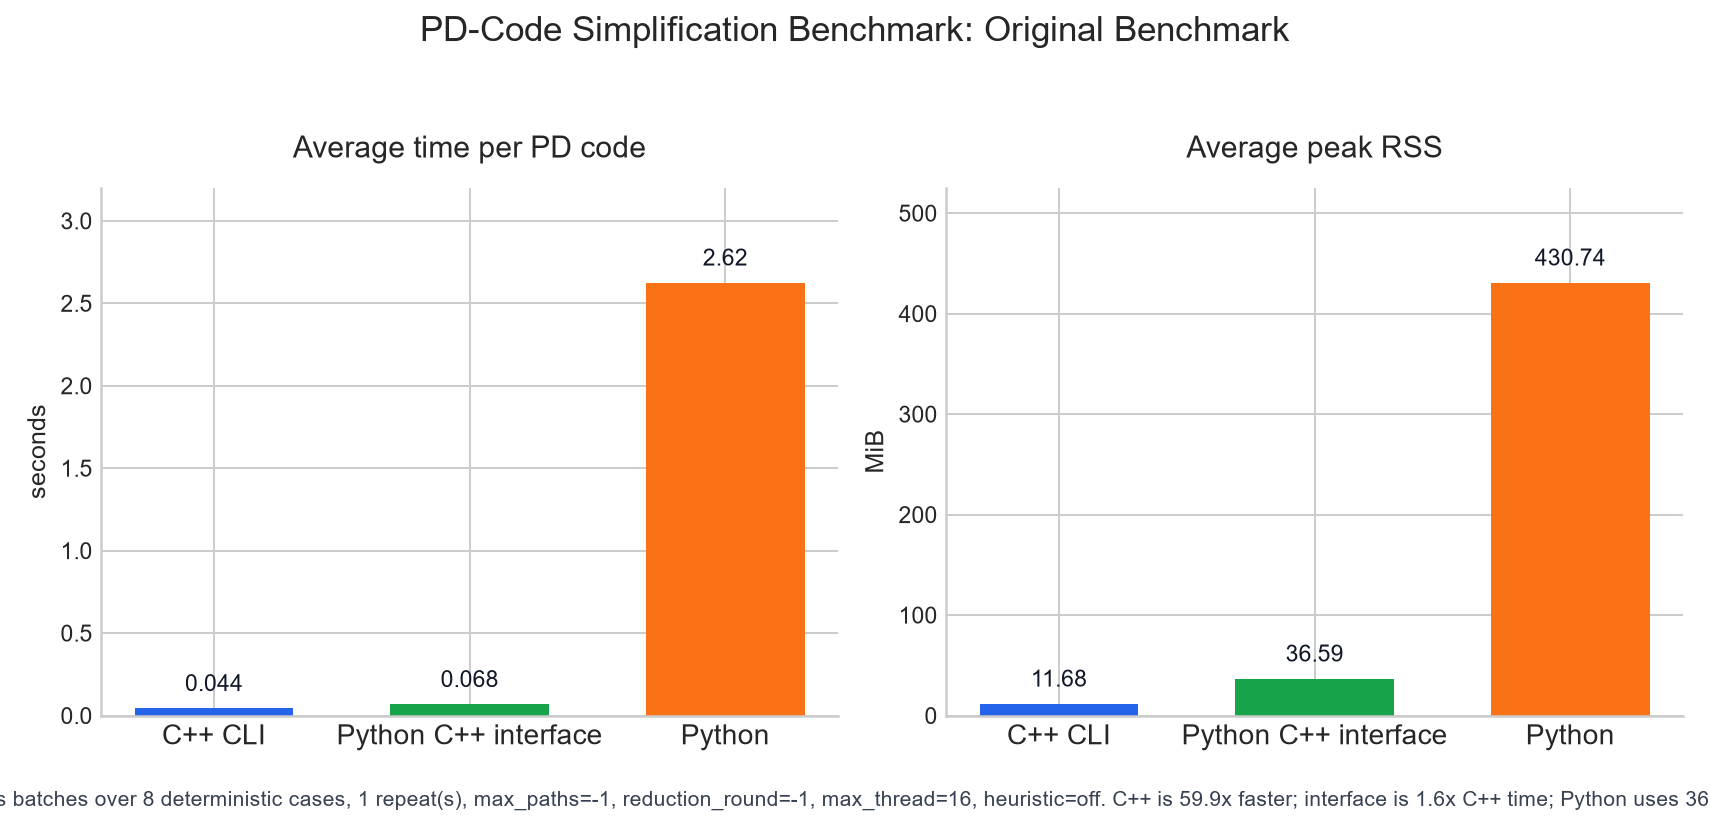
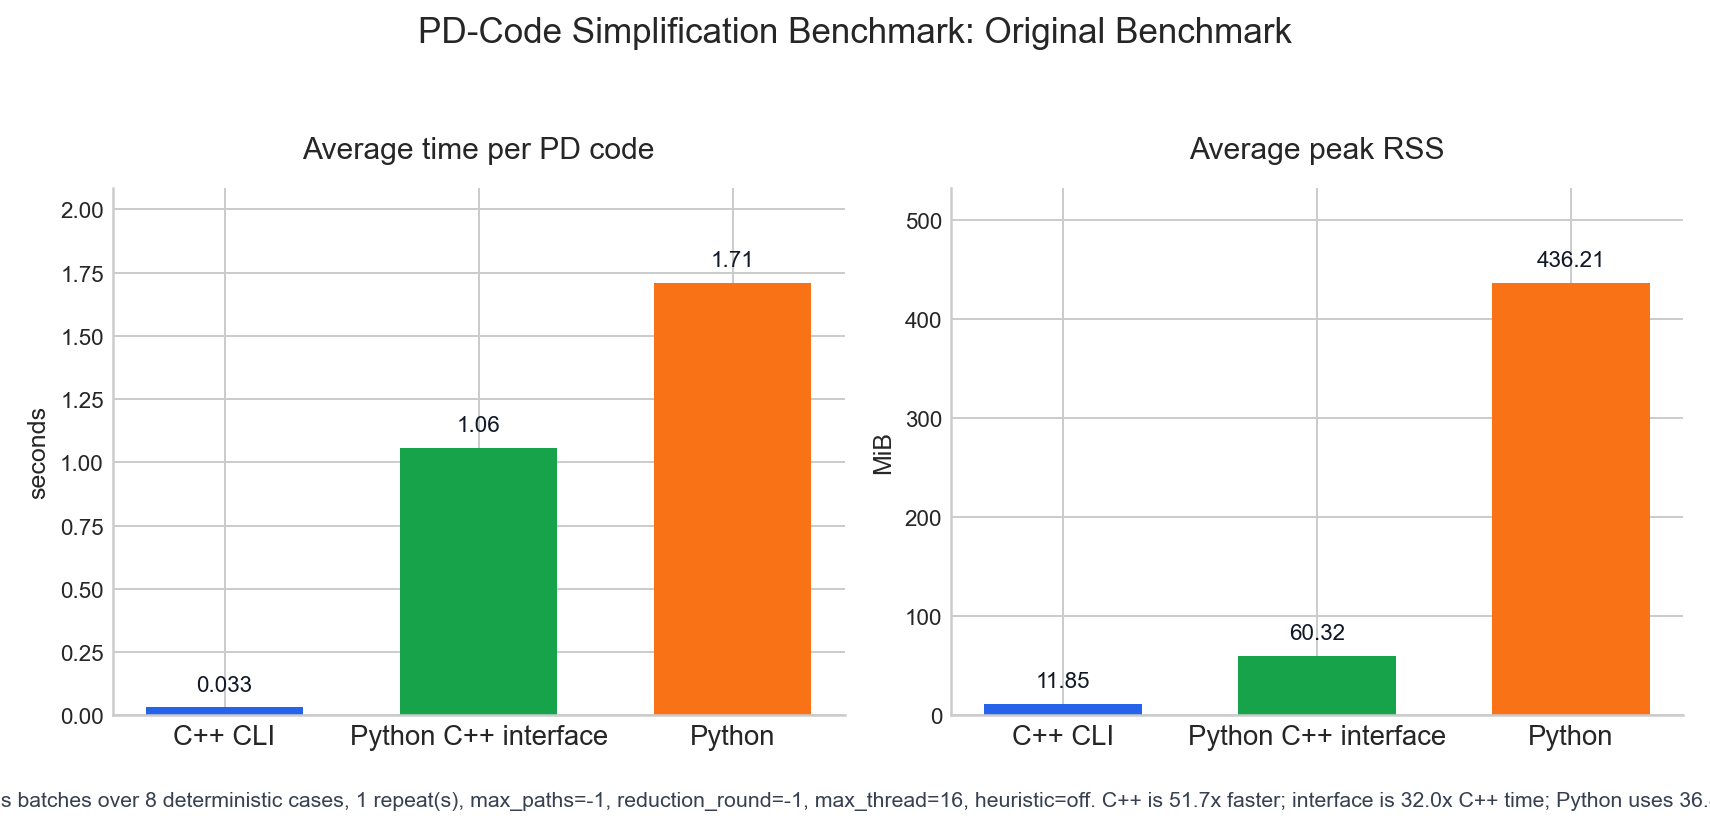
Refresh benchmark results

diff --git a/tools/benchmark_cpp_python.py b/tools/benchmark_cpp_python.py
@@ -122,13 +122,31 @@ def result_list(stdout: str) -> List[Dict[str, object]]:
 
 
 def interface_env(interface_cxx: Optional[str] = None) -> Dict[str, str]:
-    env = {
-        **os.environ,
-        "PYTHONPATH": str(INTERFACE_ROOT) + os.pathsep + os.environ.get("PYTHONPATH", ""),
-        "CPP_PD_CODE_SIMPLIFY_INTERFACE_CACHE_DIR": str(ROOT / ".cache" / "benchmark-interface"),
-    }
+    env = compiler_runtime_env(interface_cxx)
+    env["PYTHONPATH"] = str(INTERFACE_ROOT) + os.pathsep + env.get("PYTHONPATH", "")
+    env["CPP_PD_CODE_SIMPLIFY_INTERFACE_CACHE_DIR"] = str(ROOT / ".cache" / "benchmark-interface")
     if interface_cxx:
         env["CXX"] = interface_cxx
+    return env
+
+
+def compiler_runtime_env(cxx: Optional[str] = None) -> Dict[str, str]:
+    env = dict(os.environ)
+    if not cxx:
+        return env
+    compiler = Path(cxx)
+    if not compiler.exists():
+        found = shutil.which(cxx)
+        if found:
+            compiler = Path(found)
+    if not compiler.exists():
+        return env
+    compiler_dir = str(compiler.parent)
+    env["PATH"] = compiler_dir + os.pathsep + env.get("PATH", "")
+    if sys.platform.startswith("linux"):
+        env["LD_LIBRARY_PATH"] = compiler_dir + os.pathsep + env.get("LD_LIBRARY_PATH", "")
+    elif sys.platform == "darwin":
+        env["DYLD_LIBRARY_PATH"] = compiler_dir + os.pathsep + env.get("DYLD_LIBRARY_PATH", "")
     return env
 
 
@@ -246,7 +264,12 @@ def run_benchmark(
             repeat_rows: List[RawRow] = []
             repeat_results: Dict[str, List[Dict[str, object]]] = {}
             for engine in ("cpp", "interface", "python"):
-                env = interface_env(interface_cxx) if engine == "interface" else None
+                if engine == "interface":
+                    env = interface_env(interface_cxx)
+                elif engine == "cpp":
+                    env = compiler_runtime_env(interface_cxx)
+                else:
+                    env = None
                 elapsed, peak_mib, return_code, stdout = run_peak(
                     commands[engine],
                     sample_interval,

diff --git a/README.md b/README.md
@@ -87,9 +87,21 @@ Original lightweight benchmark:
 
 ![Original benchmark bar chart comparing C++ CLI, Python C++ interface, and Python](docs/assets/benchmark_original_cpp_python.png)
 
+| Engine | Avg Time / PD Code (s) | Peak RSS (MiB) |
+| --- | ---: | ---: |
+| C++ CLI | 0.033047 | 11.852 |
+| Python C++ interface | 1.057039 | 60.316 |
+| Python | 1.709355 | 436.211 |
+
 Zip-random large-case benchmark:
 
 ![Zip-random benchmark bar chart comparing C++ CLI, Python C++ interface, and Python](docs/assets/benchmark_random_cpp_python.png)
+
+| Engine | Avg Time / PD Code (s) | Peak RSS (MiB) |
+| --- | ---: | ---: |
+| C++ CLI | 0.098539 | 4.949 |
+| Python C++ interface | 1.146772 | 57.586 |
+| Python | 0.570628 | 26.023 |
 
 This local run uses the deterministic benchmark set documented in
 [Benchmarking](docs/benchmarking.md). The lightweight suite is measured with

diff --git a/docs/benchmarking.md b/docs/benchmarking.md
@@ -128,9 +128,9 @@ Original lightweight suite:
 
 | Engine | Average Time Per PD Code (s) | Average Peak RSS (MiB) |
 | --- | ---: | ---: |
-| C++ CLI | 0.043827 | 11.684 |
-| Python C++ interface | 0.068139 | 36.590 |
-| Python | 2.624598 | 430.738 |
+| C++ CLI | 0.033047 | 11.852 |
+| Python C++ interface | 1.057039 | 60.316 |
+| Python | 1.709355 | 436.211 |
 
 Zip-random large-case suite:
 
@@ -138,9 +138,9 @@ Zip-random large-case suite:
 
 | Engine | Average Time Per PD Code (s) | Average Peak RSS (MiB) |
 | --- | ---: | ---: |
-| C++ CLI | 116.428829 | 486.109 |
-| Python C++ interface | 113.286344 | 508.777 |
-| Python | 1135.775731 | 1354.438 |
+| C++ CLI | 0.098539 | 4.949 |
+| Python C++ interface | 1.146772 | 57.586 |
+| Python | 0.570628 | 26.023 |
 
 Summary CSV files are stored in
 [`docs/assets/benchmark_original_summary.csv`](assets/benchmark_original_summary.csv)